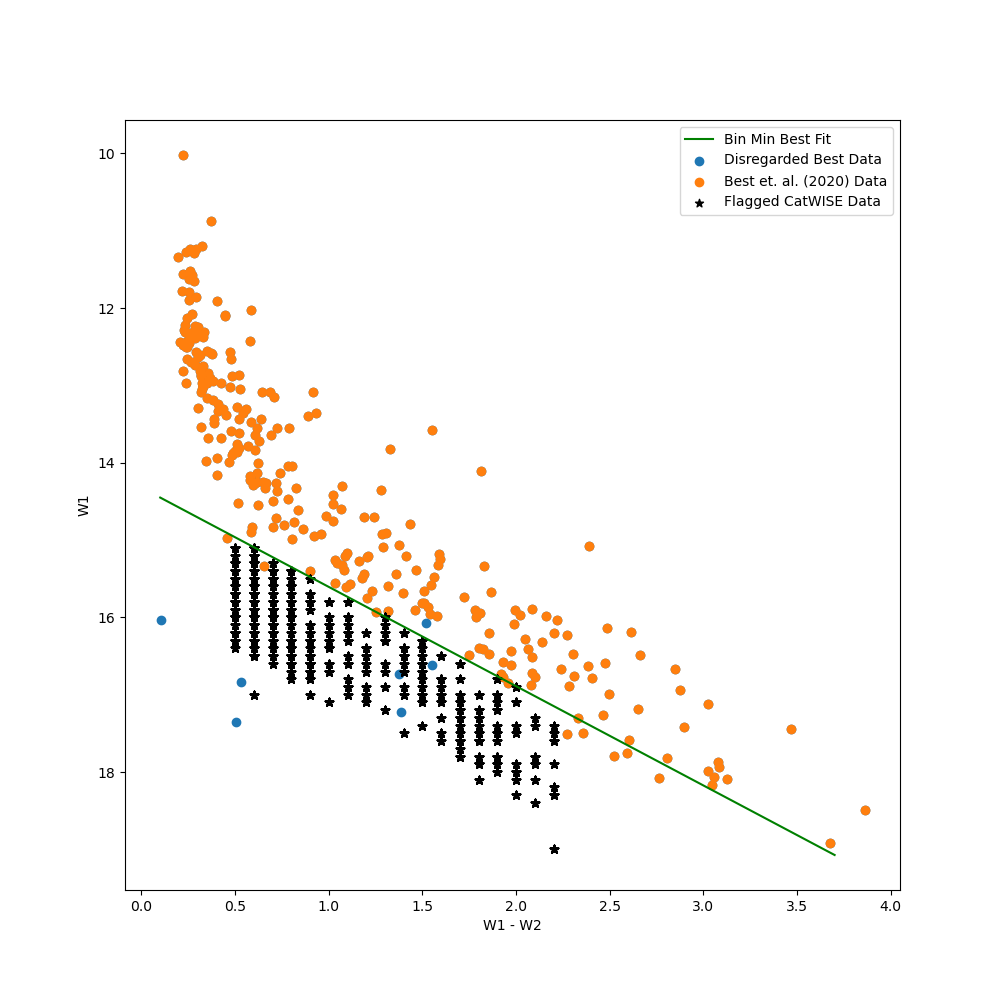
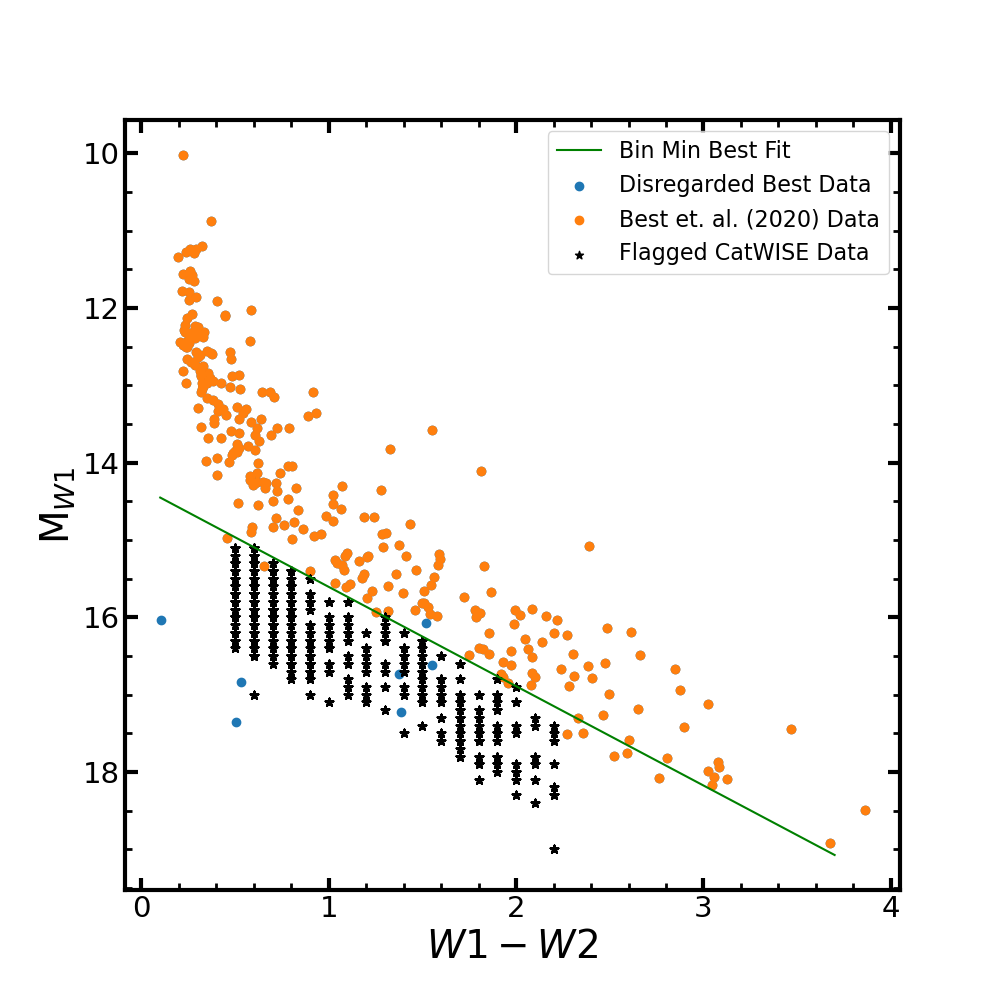
Improved look of flag plot

diff --git a/main.py b/main.py
@@ -15,7 +15,7 @@ def main():
     """
 
     csvfilepath = "/Users/samantha/OneDrive - The University of Western Ontario/Research Summer 2021/CatWISE Planemos.csv"
-    fileanalysis(csvfilepath, photometry='allwise', annotate=False)
+    fileanalysis(None, photometry='allwise', annotate=False)
     copycsvfilepath = "/Users/samantha/OneDrive - The University of Western Ontario/Research Summer 2021/Copy of CatWISE Planemos.csv"
     flagcsv = flagcatwise(copycsvfilepath)
 
